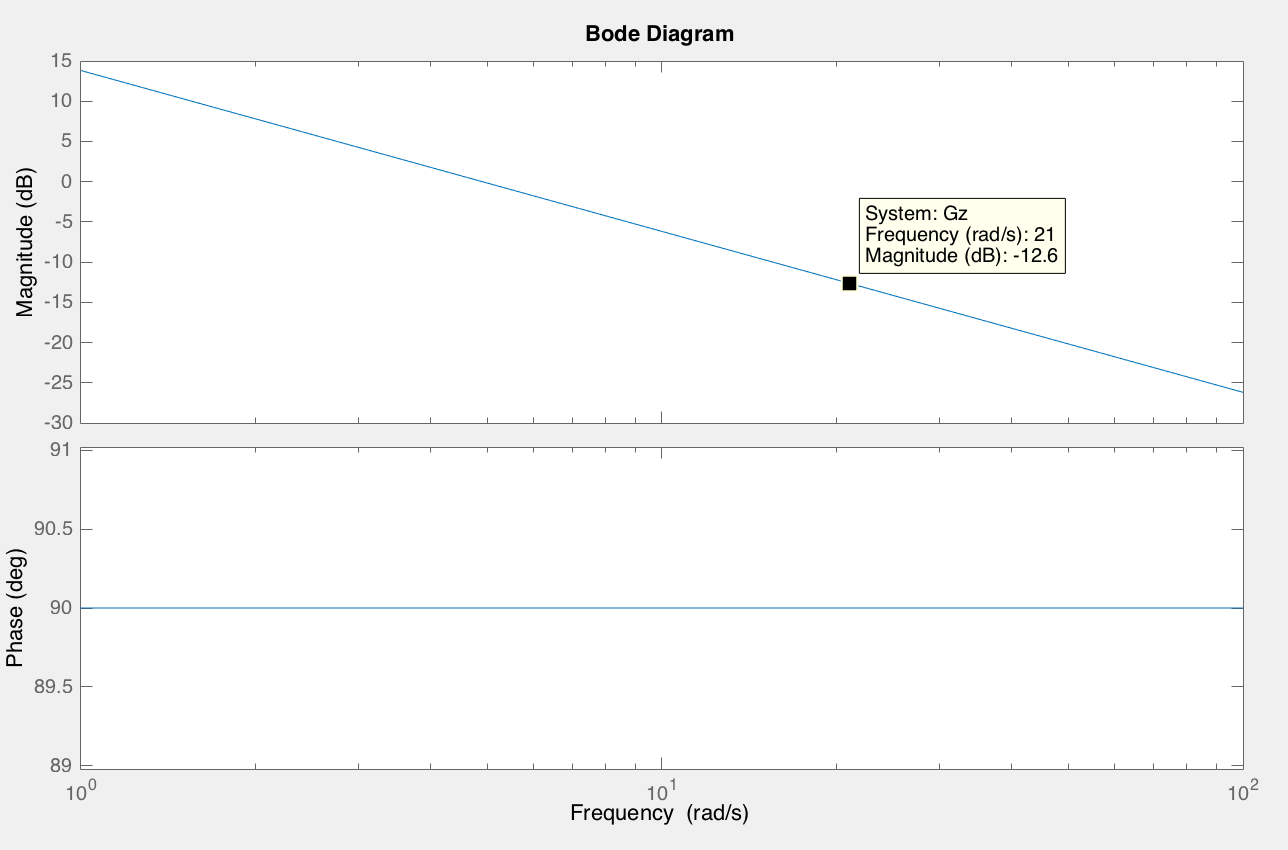
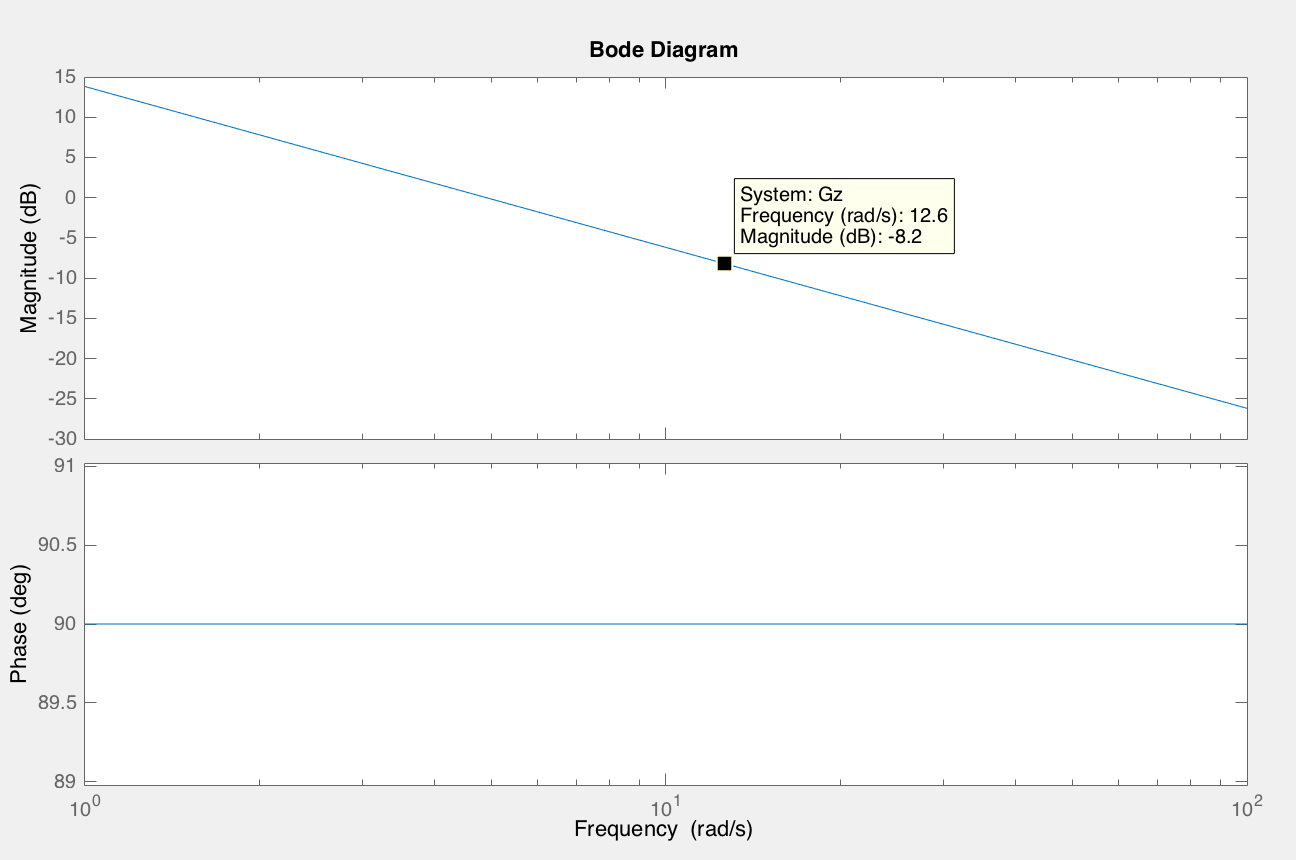
.

diff --git a/Worksheets/chapters/chapter06/trans_x_y_controller.tex b/Worksheets/chapters/chapter06/trans_x_y_controller.tex
@@ -12,7 +12,7 @@ m x_1(s)s^2=-k_{th}\cdot (\omega_1 ^2 + \omega_2 ^2 + \omega_3 ^2 + \omega_4 ^2)
 It is desirable to have a transfer function where the input is the roll angle, as this is the output from the attitude controller that goes into the translational controller block. The output of the translational pitch controller must be the velocity in the x axes. \\
 The transfer function can now be written as:
 \begin{align}
-H_{x1}(s)=\frac{x_1(s) s}{\theta}=\frac{k_{th} (\omega_1 ^2 + \omega_2 ^2 + \omega_3 ^2 + \omega_4 ^2)}{m s}\label{eq:conHx}
+H_{x1}(s)=\frac{x_1(s) s}{\theta}=\frac{-k_{th} (\omega_1 ^2 + \omega_2 ^2 + \omega_3 ^2 + \omega_4 ^2)}{m s}\label{eq:conHx}
 \end{align}
 \begin{where}
 \va{H_{x1}}{is the plant for the translational roll}{1}
@@ -57,7 +57,7 @@ Before it can be implemented and tested on the quadcopter, it needs to be discre
 \\ \\
 Now that the translational roll controller has been designed, the translational pitch controller is to be designed.  
 \subsubsection*{Pitch translational controller}
-The roll and pitch translational models are very similar and will be designed similar. Therefore a proportional controller is to be designed in the following.\\
+The roll and pitch translational models are very similar and will therefore be designed similarly. The design procedure will be the same as for the translational roll controller.\\
 
 The model expression for pitch is previously derived to be:
 \begin{align}
@@ -76,9 +76,19 @@ H_{y1}(s)=\frac{y_1(s)\cdot s}{\phi}=\frac{k_{th}\cdot (\omega_1 ^2 + \omega_2 ^
 \va{H_{y1}}{is the plant for the translational pitch}{1}
 \end{where}
  
-Root locus and bode and all that and we end up with P controller
+The desired bandwidth is 12,57 rad/s as derived in \autoref{eq:bw_X}. 
 
-simulation of the controllers
+\begin{figure}[H]
+	\centering
+	\includegraphics[width=0.7\textwidth]{figures/bode_y.png}
+	\caption{Bode plot of the plant with the 12.6 bandwidth displayed.}\label{fig:bode_y}
+\end{figure}
+The bode plot in \autoref{fig:bode_y} reveals that the magnitude is 
+
+
+
+
+
 
 Before designing the controller limit checks of the transfer function to verify if the model behaves as the plant is expected to in reality is carried out. \\
 \fxfatal{I am having trouble thinking about it, as it is not entirely intuitive to me, when the input is an angle and not a force - however if possible, i think we should have a short piece of text to show we have been critical to the math we have derived - to check it before continuing.} 
